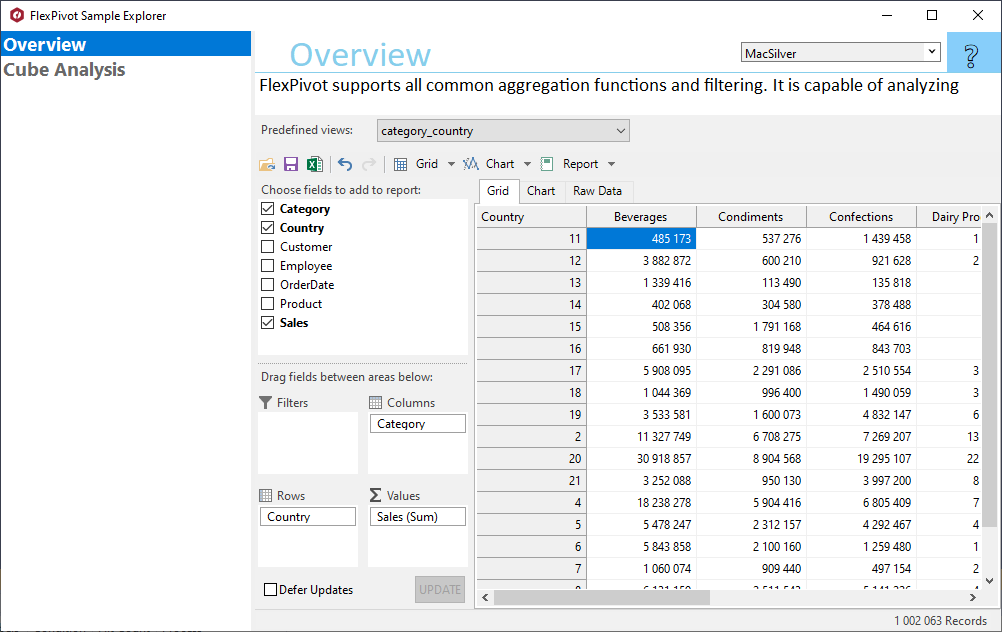
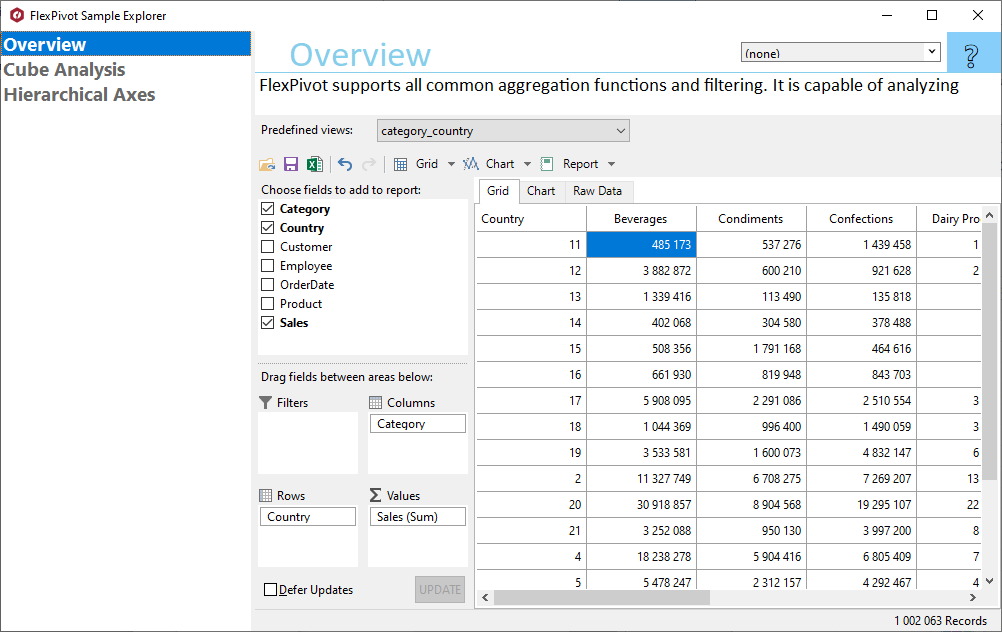
Merged in bugfix/C1WIN-25146-licenses.licx-files-and-dlls-are-not-updated-in-some-samples (pull request #76)
Bugfix/C1WIN-25146 licenses.licx files and dlls are not updated in some samples

* C1WIN-25146  - replace Input.C1CheckList to TreeView.C1CheckList in FlexPivotSlicer, add New Ribbon dlls into the NetFramework '[PrinttingSample]' of GanttView; add C1.Win.Input.Pickers nuget to FlexPivot explorer.

* C1WIN-25146 - fix  FlexPivotSlicers sample  (remove dupliates in licenses.licx, add missing references in csproj)

* C1WIN-25146 - add the demonstration of Hierarchical Axes sample for FlexPivotExplorer

* C1WIN-25146 - replace C1Ribbon with Ribbon in the FlexPivotSlicers sample

Approved-by: Konstantin Pletnev

diff --git a/NetFramework/FlexPivot/CS/FlexPivotSlicers/Form1.Designer.cs b/NetFramework/FlexPivot/CS/FlexPivotSlicers/Form1.Designer.cs
@@ -30,19 +30,19 @@
 		{
 			this.components = new System.ComponentModel.Container();
 			System.ComponentModel.ComponentResourceManager resources = new System.ComponentModel.ComponentResourceManager(typeof(Form1));
-			this.c1Ribbon1 = new C1.Win.C1Ribbon.C1Ribbon();
-			this.ribbonApplicationMenu1 = new C1.Win.C1Ribbon.RibbonApplicationMenu();
-			this.ribbonBottomToolBar1 = new C1.Win.C1Ribbon.RibbonBottomToolBar();
-			this.ribbonConfigToolBar1 = new C1.Win.C1Ribbon.RibbonConfigToolBar();
-			this.ribbonQat1 = new C1.Win.C1Ribbon.RibbonQat();
-			this.ribbonTab1 = new C1.Win.C1Ribbon.RibbonTab();
-			this.ribbonGroup1 = new C1.Win.C1Ribbon.RibbonGroup();
-			this.ribbonTopToolBar1 = new C1.Win.C1Ribbon.RibbonTopToolBar();
+			this.c1Ribbon1 = new C1.Win.Ribbon.C1Ribbon();
+			this.ribbonApplicationMenu1 = new C1.Win.Ribbon.RibbonApplicationMenu();
+			this.ribbonBottomToolBar1 = new C1.Win.Ribbon.RibbonBottomToolBar();
+			this.ribbonConfigToolBar1 = new C1.Win.Ribbon.RibbonConfigToolBar();
+			this.ribbonQat1 = new C1.Win.Ribbon.RibbonQat();
+			this.ribbonTab1 = new C1.Win.Ribbon.RibbonTab();
+			this.ribbonGroup1 = new C1.Win.Ribbon.RibbonGroup();
+			this.ribbonTopToolBar1 = new C1.Win.Ribbon.RibbonTopToolBar();
 			this.c1SplitContainer1 = new C1.Win.C1SplitContainer.C1SplitContainer();
 			this.c1SplitterPanel1 = new C1.Win.C1SplitContainer.C1SplitterPanel();
 			this.c1DashboardLayout1 = new C1.Win.Layout.C1DashboardLayout();
 			this.panel3 = new System.Windows.Forms.Panel();
-			this.chlFields = new C1.Win.Input.C1CheckList();
+			this.chlFields = new C1.Win.TreeView.C1CheckList();
 			this.panel2 = new System.Windows.Forms.Panel();
 			this.panel4 = new System.Windows.Forms.Panel();
 			this.panel5 = new System.Windows.Forms.Panel();
@@ -53,15 +53,15 @@
 			this.c1FlexPivotGrid1 = new C1.Win.FlexPivot.C1FlexPivotGrid();
 			this.c1FlexPivotPanel1 = new C1.Win.FlexPivot.C1FlexPivotPanel();
 			this.c1ThemeController1 = new C1.Win.C1Themes.C1ThemeController();
-			this.ribbonGallery1 = new C1.Win.C1Ribbon.RibbonGallery();
-			this.ribbonTab2 = new C1.Win.C1Ribbon.RibbonTab();
-			this.ribbonGroup2 = new C1.Win.C1Ribbon.RibbonGroup();
-			this.rbGrid = new C1.Win.C1Ribbon.RibbonToggleButton();
-			this.rbChart = new C1.Win.C1Ribbon.RibbonToggleButton();
-			this.ribbonTab3 = new C1.Win.C1Ribbon.RibbonTab();
-			this.ribbonGroup3 = new C1.Win.C1Ribbon.RibbonGroup();
-			this.ribbonCheckBox1 = new C1.Win.C1Ribbon.RibbonCheckBox();
-			this.ribbonButton1 = new C1.Win.C1Ribbon.RibbonButton();
+			this.ribbonGallery1 = new C1.Win.Ribbon.RibbonGallery();
+			this.ribbonTab2 = new C1.Win.Ribbon.RibbonTab();
+			this.ribbonGroup2 = new C1.Win.Ribbon.RibbonGroup();
+			this.rbGrid = new C1.Win.Ribbon.RibbonToggleButton();
+			this.rbChart = new C1.Win.Ribbon.RibbonToggleButton();
+			this.ribbonTab3 = new C1.Win.Ribbon.RibbonTab();
+			this.ribbonGroup3 = new C1.Win.Ribbon.RibbonGroup();
+			this.ribbonCheckBox1 = new C1.Win.Ribbon.RibbonCheckBox();
+			this.ribbonButton1 = new C1.Win.Ribbon.RibbonButton();
 			this.c1FlexPivotChart1 = new C1.Win.FlexPivot.FlexPivotChart();
 			((System.ComponentModel.ISupportInitialize)(this.c1Ribbon1)).BeginInit();
 			((System.ComponentModel.ISupportInitialize)(this.c1SplitContainer1)).BeginInit();
@@ -95,7 +95,6 @@
 			this.c1Ribbon1.Tabs.Add(this.ribbonTab3);
 			this.c1ThemeController1.SetTheme(this.c1Ribbon1, "(default)");
 			this.c1Ribbon1.TopToolBarHolder = this.ribbonTopToolBar1;
-			this.c1Ribbon1.VisualStyle = C1.Win.C1Ribbon.VisualStyle.Custom;
 			// 
 			// ribbonApplicationMenu1
 			// 
@@ -501,14 +500,14 @@
 
 		#endregion
 
-		private C1.Win.C1Ribbon.C1Ribbon c1Ribbon1;
-		private C1.Win.C1Ribbon.RibbonApplicationMenu ribbonApplicationMenu1;
-		private C1.Win.C1Ribbon.RibbonBottomToolBar ribbonBottomToolBar1;
-		private C1.Win.C1Ribbon.RibbonConfigToolBar ribbonConfigToolBar1;
-		private C1.Win.C1Ribbon.RibbonQat ribbonQat1;
-		private C1.Win.C1Ribbon.RibbonTab ribbonTab1;
-		private C1.Win.C1Ribbon.RibbonGroup ribbonGroup1;
-		private C1.Win.C1Ribbon.RibbonTopToolBar ribbonTopToolBar1;
+		private C1.Win.Ribbon.C1Ribbon c1Ribbon1;
+		private C1.Win.Ribbon.RibbonApplicationMenu ribbonApplicationMenu1;
+		private C1.Win.Ribbon.RibbonBottomToolBar ribbonBottomToolBar1;
+		private C1.Win.Ribbon.RibbonConfigToolBar ribbonConfigToolBar1;
+		private C1.Win.Ribbon.RibbonQat ribbonQat1;
+		private C1.Win.Ribbon.RibbonTab ribbonTab1;
+		private C1.Win.Ribbon.RibbonGroup ribbonGroup1;
+		private C1.Win.Ribbon.RibbonTopToolBar ribbonTopToolBar1;
 		private C1.Win.C1Themes.C1ThemeController c1ThemeController1;
 		private C1.Win.C1SplitContainer.C1SplitContainer c1SplitContainer1;
 		private C1.Win.C1SplitContainer.C1SplitterPanel c1SplitterPanel1;
@@ -521,18 +520,18 @@
 		private C1.Win.C1SplitContainer.C1SplitterPanel c1SplitterPanel4;
 		private C1.Win.FlexPivot.C1FlexPivotPanel c1FlexPivotPanel1;
 		private System.Windows.Forms.Panel panel3;
-		private C1.Win.Input.C1CheckList chlFields;
+		private C1.Win.TreeView.C1CheckList chlFields;
 		private System.Windows.Forms.Panel panel5;
 		private C1.Win.C1SplitContainer.C1SplitterPanel c1SplitterPanel5;
-		private C1.Win.C1Ribbon.RibbonGallery ribbonGallery1;
-		private C1.Win.C1Ribbon.RibbonButton ribbonButton1;
-		private C1.Win.C1Ribbon.RibbonTab ribbonTab2;
-		private C1.Win.C1Ribbon.RibbonGroup ribbonGroup2;
-		private C1.Win.C1Ribbon.RibbonToggleButton rbGrid;
-		private C1.Win.C1Ribbon.RibbonToggleButton rbChart;
-		private C1.Win.C1Ribbon.RibbonTab ribbonTab3;
-		private C1.Win.C1Ribbon.RibbonGroup ribbonGroup3;
-		private C1.Win.C1Ribbon.RibbonCheckBox ribbonCheckBox1;
+		private C1.Win.Ribbon.RibbonGallery ribbonGallery1;
+		private C1.Win.Ribbon.RibbonButton ribbonButton1;
+		private C1.Win.Ribbon.RibbonTab ribbonTab2;
+		private C1.Win.Ribbon.RibbonGroup ribbonGroup2;
+		private C1.Win.Ribbon.RibbonToggleButton rbGrid;
+		private C1.Win.Ribbon.RibbonToggleButton rbChart;
+		private C1.Win.Ribbon.RibbonTab ribbonTab3;
+		private C1.Win.Ribbon.RibbonGroup ribbonGroup3;
+		private C1.Win.Ribbon.RibbonCheckBox ribbonCheckBox1;
 		private C1.Win.FlexPivot.FlexPivotChart c1FlexPivotChart1;
 	}
 }

diff --git a/NetFramework/GanttView/CS/PrintingSample/Form1.cs b/NetFramework/GanttView/CS/PrintingSample/Form1.cs
@@ -38,8 +38,8 @@ namespace PrintingSample
 
         private void ganttView_BeforePrintPreview(object sender, CancelEventArgs e)
         {
-            if (ganttView.PrintInfo.PreviewHelper.C1PrintPreviewDialog is C1.Win.C1RibbonPreview.C1RibbonPreviewDialog)
-                (ganttView.PrintInfo.PreviewHelper.C1PrintPreviewDialog as C1.Win.C1RibbonPreview.C1RibbonPreviewDialog).RibbonElements.FileOpen.Visible = false;
+            if (ganttView.PrintInfo.PreviewHelper.C1PrintPreviewDialog is C1.Win.RibbonPreview.C1RibbonPreviewDialog)
+                (ganttView.PrintInfo.PreviewHelper.C1PrintPreviewDialog as C1.Win.RibbonPreview.C1RibbonPreviewDialog).RibbonElements.FileOpen.Visible = false;
         }
     }
 }

diff --git a/Core/FlexPivot/FlexPivotExplorer/Data/Samples.cs b/Core/FlexPivot/FlexPivotExplorer/Data/Samples.cs
@@ -46,6 +46,10 @@ namespace FlexPivotExplorer
                "Cube Analysis",
                "Shows how to use C1FlexPivot to analyze Cube data.",
                typeof(Samples.CubeAnalysis)));
+            _allItems.Add(new SampleItem("Hierarchical Axes",
+               "Hierarchical Axes",
+               "Shows how to enable hierarchical view for chart axes using ShowHierarchicalAxes property.",
+               typeof(Samples.HierarchicalAxes)));
         }
 
         public static IList<SampleItem> AllItems

diff --git a/NetFramework/FlexPivot/CS/FlexPivotSlicers/Form1.cs b/NetFramework/FlexPivot/CS/FlexPivotSlicers/Form1.cs
@@ -1,4 +1,4 @@
-using C1.Win.C1Ribbon;
+using C1.Win.Ribbon;
 using C1.Win.Layout;
 using System;
 using System.Collections.Generic;

diff --git a/Core/FlexPivot/FlexPivotExplorer/README.md b/Core/FlexPivot/FlexPivotExplorer/README.md
@@ -9,5 +9,6 @@ Included samples:
   FlexPivot supports all common aggregation functions and filtering. It is capable of analyzing large data sets with millions of records in seconds or less. 
   The user can specify what kinds of analytics to perform, and see the results in different views including a pivot grid and a chart.
 * Cube Analysis - Shows how to use C1FlexPivot to analyze Cube data.
+* Hierarchical Axes - Shows how to enable hierarchical view for chart axes using ShowHierarchicalAxes property.
 
 ![screenshot](screenshot.PNG)
